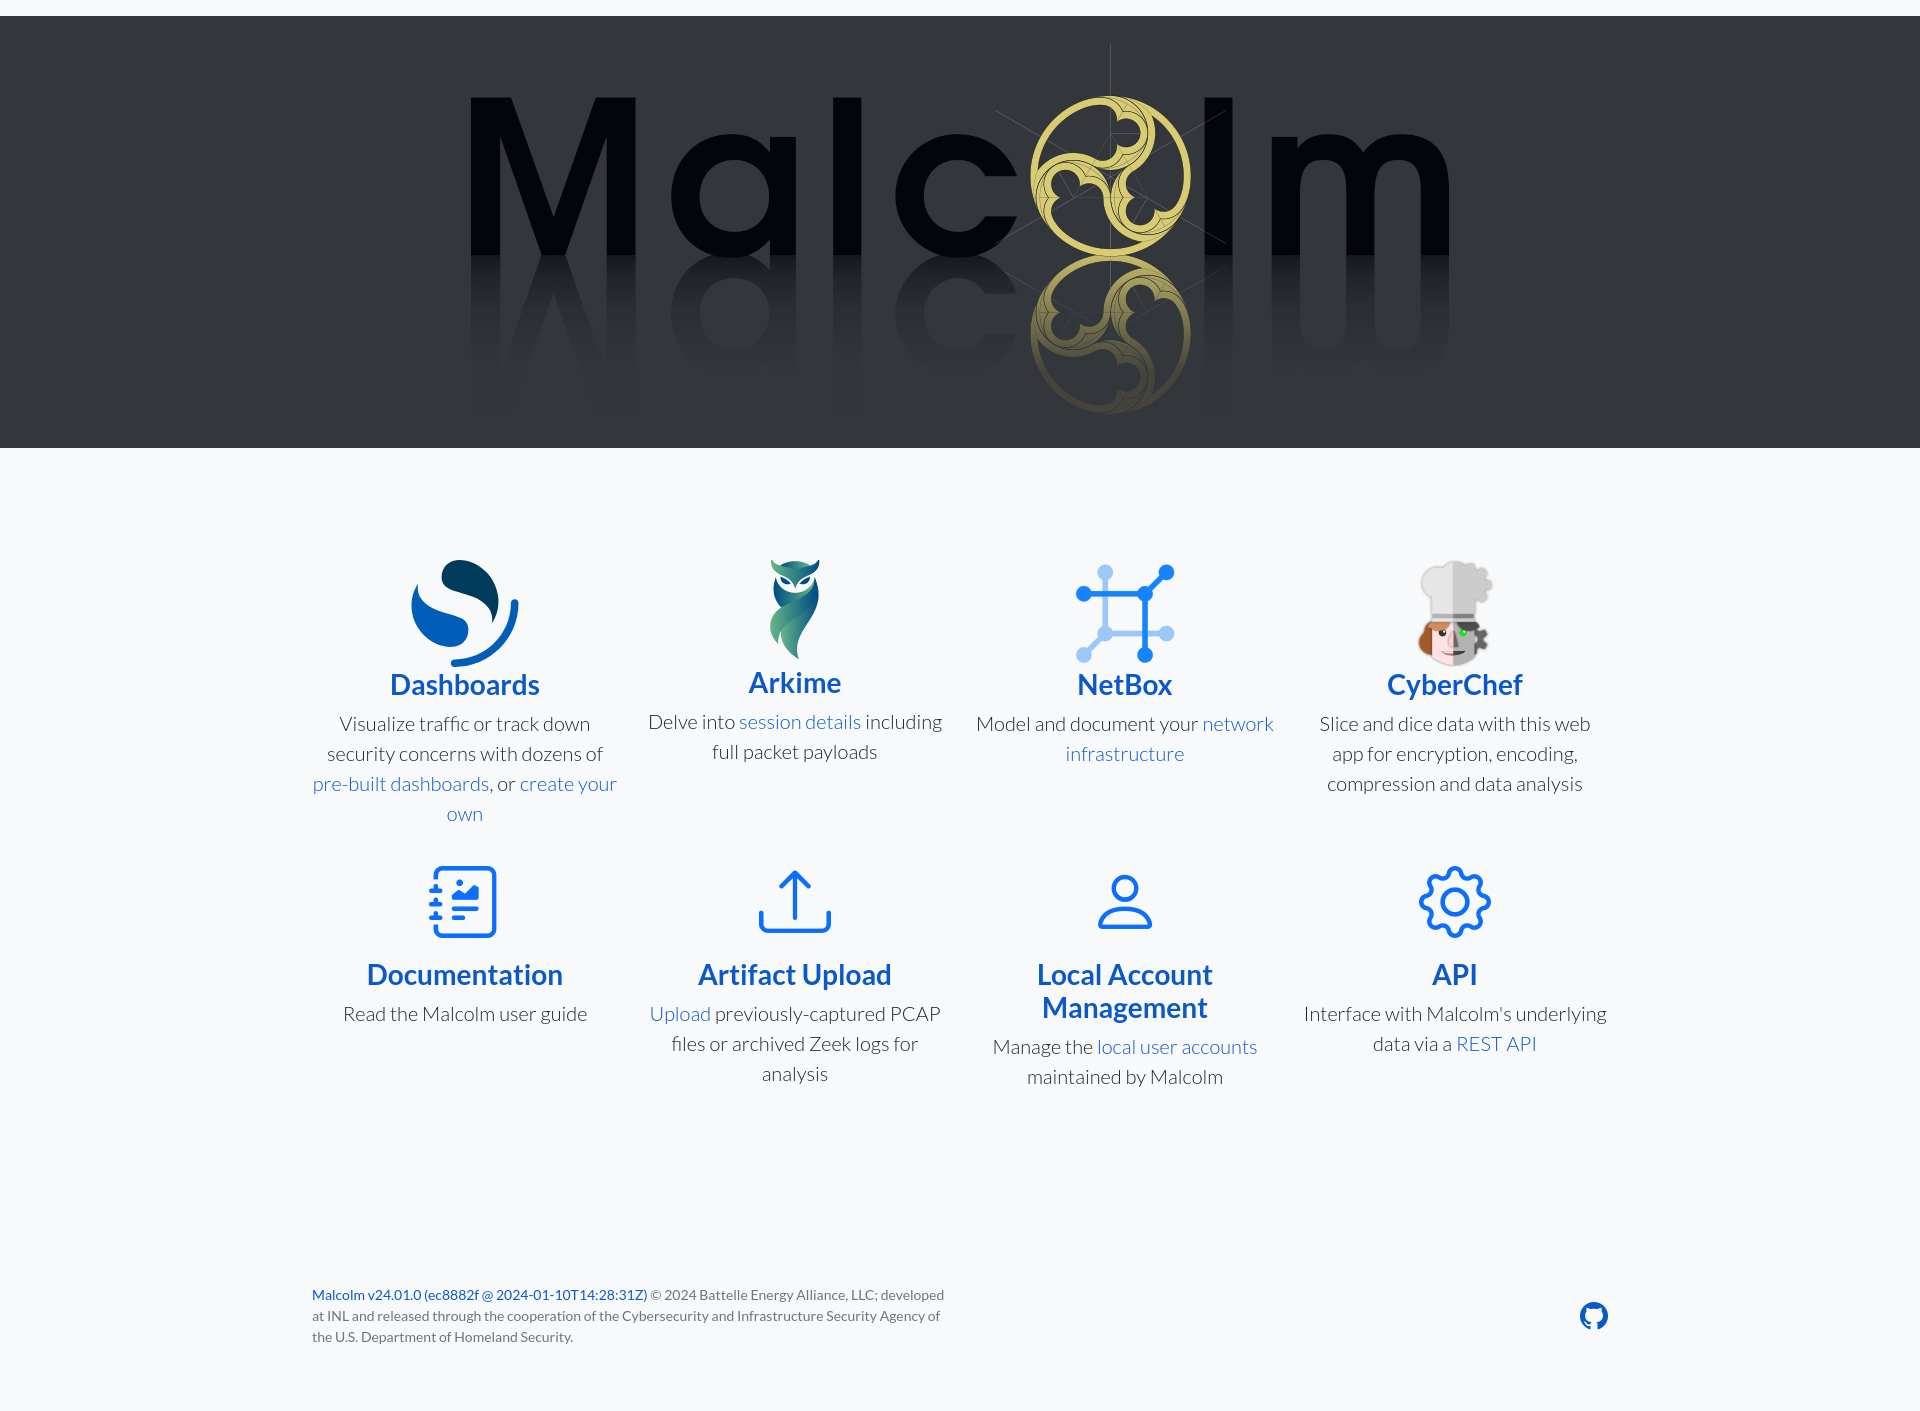
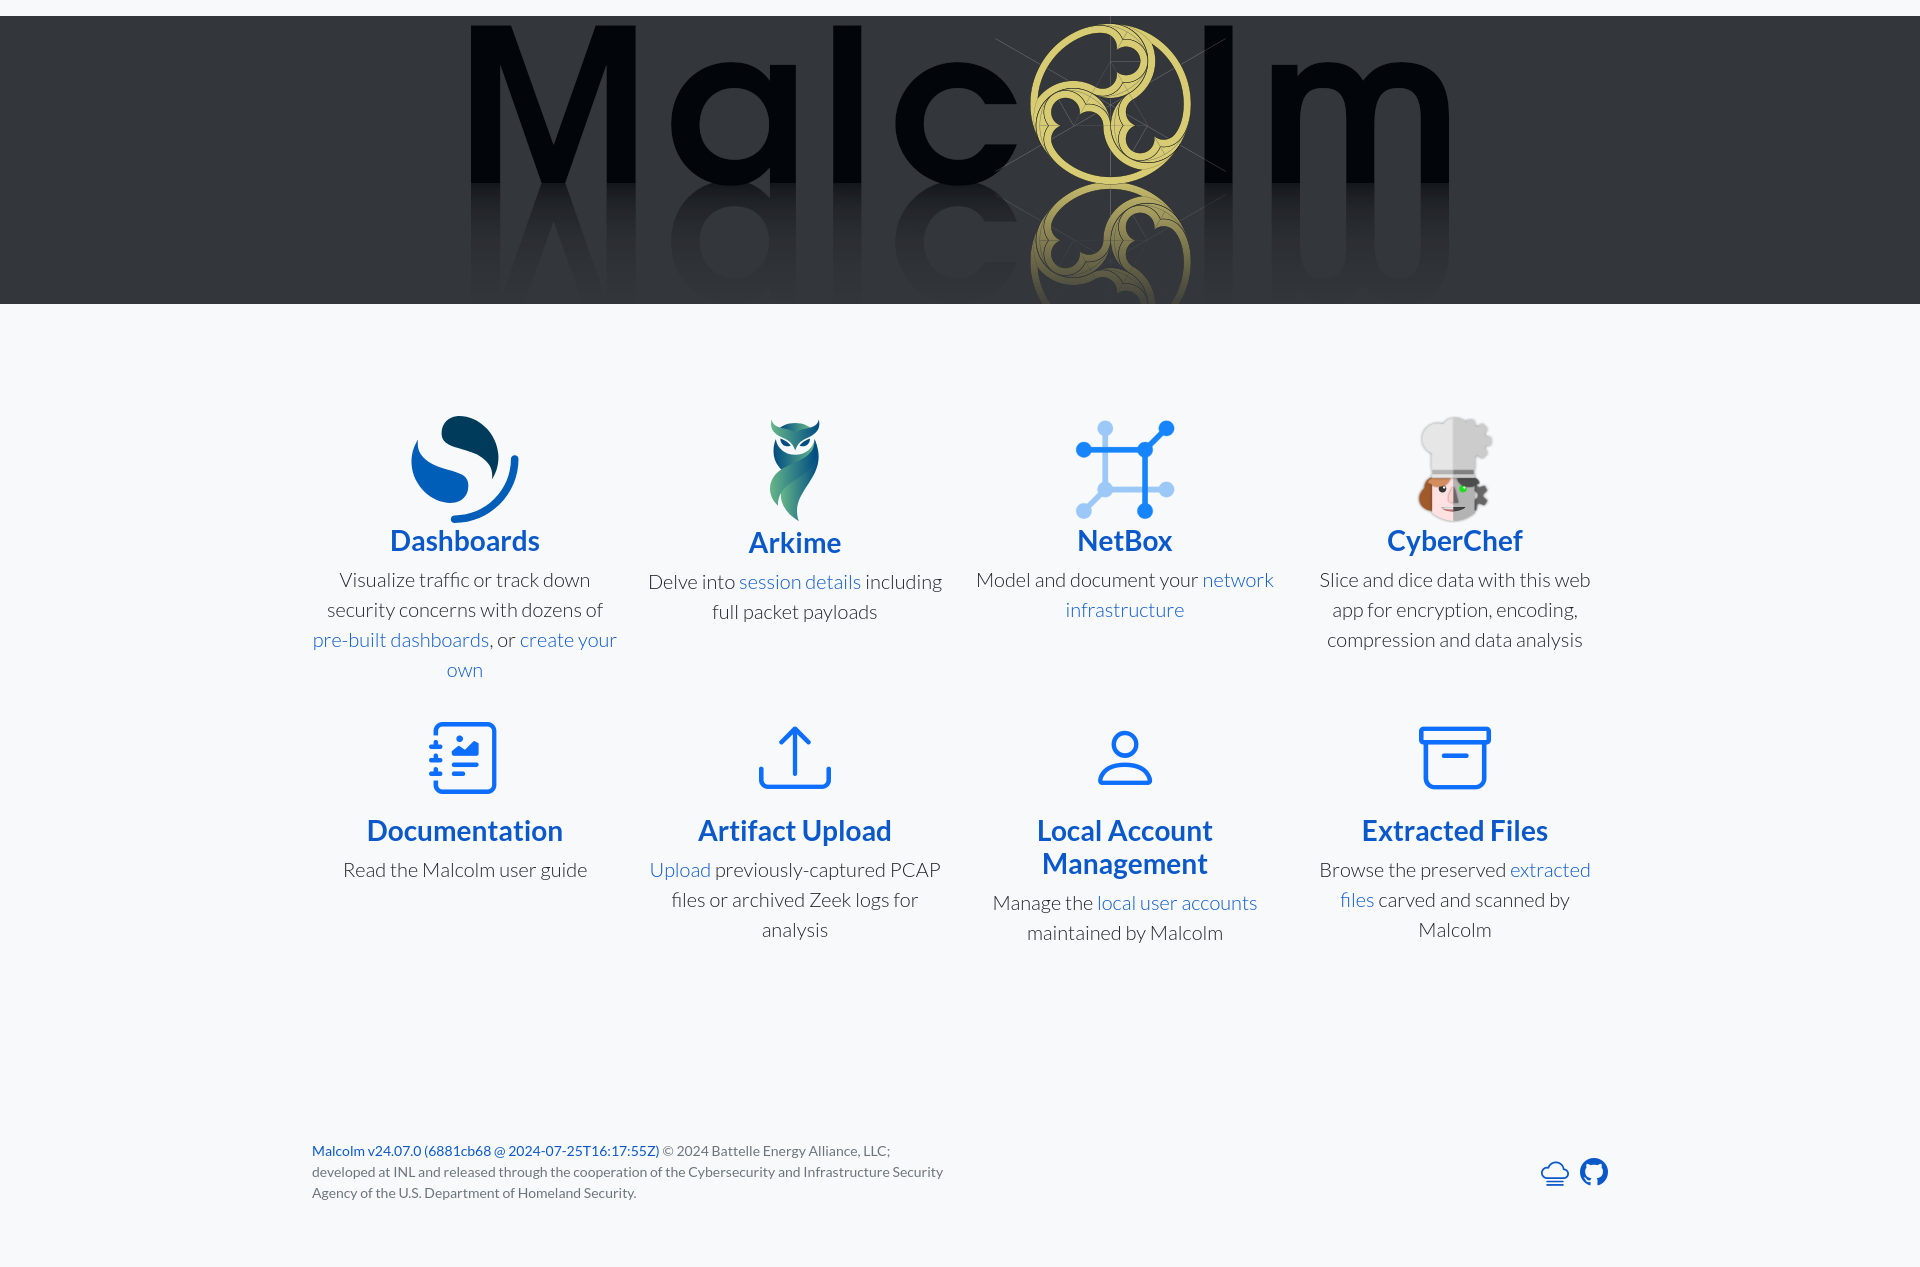
idaholab/Malcolm#524, add extracted-files to the landing interface

diff --git a/nginx/landingpage/index.html b/nginx/landingpage/index.html
@@ -83,9 +83,9 @@
                     </div>
                     <div class="col-lg-3">
                         <div class="features-icons-item mx-auto mb-0 mb-lg-3">
-                            <a href="/mapi/"><div class="features-icons-icon d-flex"><i class="bi-gear m-auto text-primary"></i></div>
-                            <h3>API</h3></a>
-                            <p class="lead mb-0">Interface with Malcolm's underlying data via a <a href="/readme/docs/api.html">REST API</a></p>
+                            <a href="/extracted-files/"><div class="features-icons-icon d-flex"><i class="bi-archive m-auto text-primary"></i></div>
+                            <h3>Extracted Files</h3></a>
+                            <p class="lead mb-0">Browse the preserved <a href="/readme/docs/file-scanning.html#ZeekFileExtractionUI">extracted files</a> carved and scanned by Malcolm</p>
                         </div>
                     </div>
                 </div>
@@ -103,7 +103,10 @@
                     <div class="col-lg-6 h-100 text-center text-lg-end my-auto">
                         <ul class="list-inline mb-0">
                             <li class="list-inline-item">
-                                <a href="https://github.com/idaholab/Malcolm"><i class="bi-github fs-3"></i></a>
+                                <a href="/mapi/"><i class="bi-cloud-fog fs-3" title="REST API"></i></a>
+                            </li>
+                            <li class="list-inline-item">
+                                <a href="https://github.com/idaholab/Malcolm"><i class="bi-github fs-3" title="GitHub"></i></a>
                             </li>
                         </ul>
                     </div>
